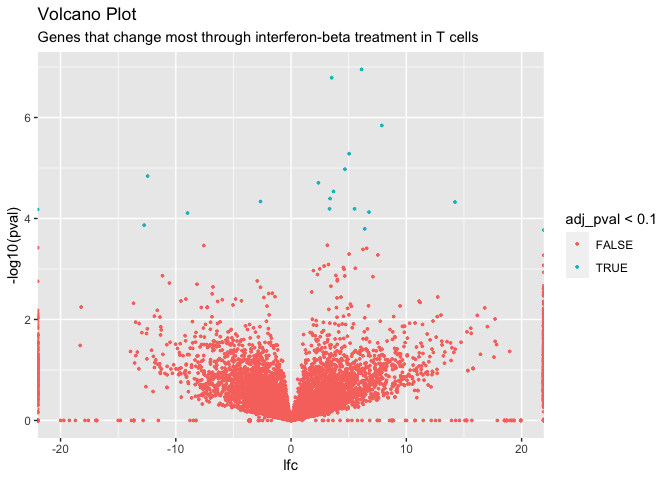
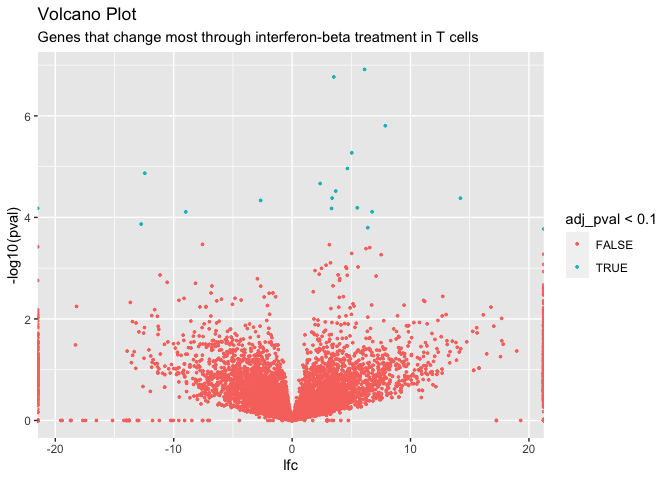
Update README

diff --git a/README.md b/README.md
@@ -101,7 +101,7 @@ library(DelayedMatrixStats)
 # The full dataset with 33,000 genes and 4340 cells
 # The first time this is run, it will download the data
 pbmcs <- TENxPBMCData::TENxPBMCData("pbmc4k")
-#> snapshotDate(): 2020-10-02
+#> snapshotDate(): 2020-10-27
 #> see ?TENxPBMCData and browseVignettes('TENxPBMCData') for documentation
 #> loading from cache
 
@@ -138,8 +138,8 @@ summary(fit)
 #> Intercept -8.51   -6.57  -3.91   -2.59 0.903
 #> 
 #> deviance:
-#>  Min 1st Qu. Median 3rd Qu.  Max
-#>   14    86.8    657    1686 5507
+#>      Min 1st Qu. Median 3rd Qu.  Max
+#>  0.00323    0.02  0.151   0.388 1.27
 #> 
 #> overdispersion:
 #>  Min  1st Qu. Median 3rd Qu.   Max
@@ -196,10 +196,10 @@ bench::mark(
 #> # A tibble: 4 x 6
 #>   expression               min   median `itr/sec` mem_alloc `gc/sec`
 #>   <bch:expr>          <bch:tm> <bch:tm>     <dbl> <bch:byt>    <dbl>
-#> 1 glmGamPoi_in_memory     1.1s    1.12s    0.748   533.49MB    2.99 
-#> 2 glmGamPoi_on_disk      4.09s    4.69s    0.221   852.28MB    1.40 
-#> 3 DESeq2                21.28s   22.07s    0.0456    1.08GB    0.365
-#> 4 edgeR                  5.67s    5.86s    0.170     1.18GB    1.08
+#> 1 glmGamPoi_in_memory    1.09s    1.12s    0.753   534.11MB    3.01 
+#> 2 glmGamPoi_on_disk      3.99s       4s    0.234   852.91MB    1.63 
+#> 3 DESeq2                20.02s   20.04s    0.0495    1.08GB    0.380
+#> 4 edgeR                  5.37s    5.47s    0.184     1.18GB    1.53
 ```
 
 On this dataset, `glmGamPoi` is more than 5 times faster than `edgeR`
@@ -265,8 +265,8 @@ and cell type (`cell`):
 
 ``` r
 sce <- muscData::Kang18_8vs8()
-#> snapshotDate(): 2020-10-02
-#> snapshotDate(): 2020-10-02
+#> snapshotDate(): 2020-10-27
+#> snapshotDate(): 2020-10-27
 #> see ?muscData and browseVignettes('muscData') for documentation
 #> loading from cache
 colData(sce)
@@ -326,7 +326,7 @@ summary(fit)
 #> 
 #> deviance:
 #>  Min 1st Qu. Median 3rd Qu.  Max
-#>    0    61.9    114     251 5706
+#>    0  0.0619  0.114   0.251 5.71
 #> 
 #> overdispersion:
 #>  Min 1st Qu. Median 3rd Qu.  Max
@@ -377,12 +377,12 @@ de_res$lfc <- ifelse(abs(de_res$lfc) > 20, sign(de_res$lfc) * Inf, de_res$lfc)
 # Most different genes
 head(de_res[order(de_res$pval), ])
 #>       name         pval     adj_pval f_statistic df1      df2        lfc
-#> 189   IFI6 1.192350e-07 0.0008470376    37.58943   1 52.03273   6.118008
-#> 6691 PSME2 1.741621e-07 0.0008470376    36.32494   1 52.03273   3.519394
-#> 5181 IFIT3 1.511251e-06 0.0048999779    29.46707   1 52.03273   7.872549
-#> 9689   MX1 5.424514e-06 0.0131910618    25.68213   1 52.03273   5.037912
-#> 5356  IRF7 1.095526e-05 0.0213123592    23.68273   1 52.03273   4.670868
-#> 2321   IGJ 1.490883e-05 0.0241697017    22.82425   1 52.03273 -12.445271
+#> 189   IFI6 1.212629e-07 0.0008316174    37.25346   1 53.33034   6.118008
+#> 6691 PSME2 1.709916e-07 0.0008316174    36.12175   1 53.33034   3.519394
+#> 5181 IFIT3 1.564660e-06 0.0050731499    29.18276   1 53.33034   7.872549
+#> 9689   MX1 5.336737e-06 0.0129776112    25.58876   1 53.33034   5.037912
+#> 5356  IRF7 1.086665e-05 0.0211399736    23.58467   1 53.33034   4.670868
+#> 2321   IGJ 1.348147e-05 0.0218557065    22.98818   1 53.33034 -12.445271
 ```
 
 The test is successful and we identify interesting genes that are
@@ -512,7 +512,7 @@ sessionInfo()
 #> [17] GenomeInfoDb_1.26.1         IRanges_2.24.0             
 #> [19] S4Vectors_0.28.0            BiocGenerics_0.36.0        
 #> [21] MatrixGenerics_1.2.0        matrixStats_0.57.0         
-#> [23] glmGamPoi_1.3.5            
+#> [23] glmGamPoi_1.3.6            
 #> 
 #> loaded via a namespace (and not attached):
 #>  [1] bitops_1.0-6                  bit64_4.0.5                  
